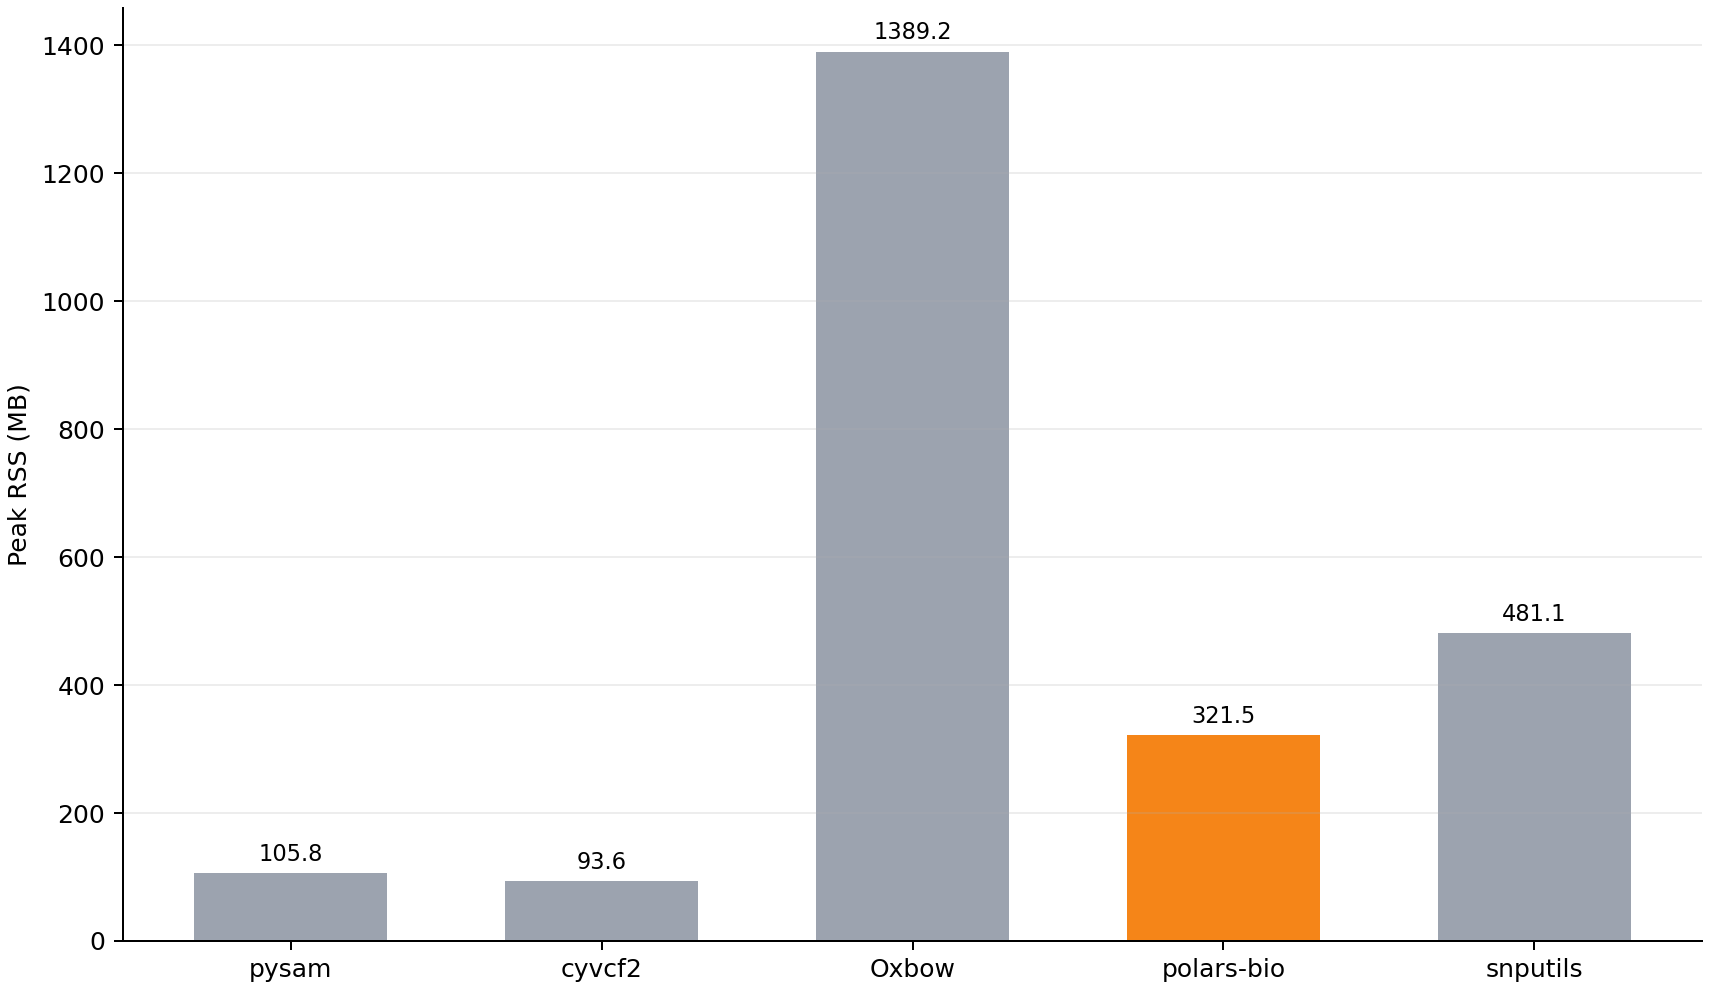
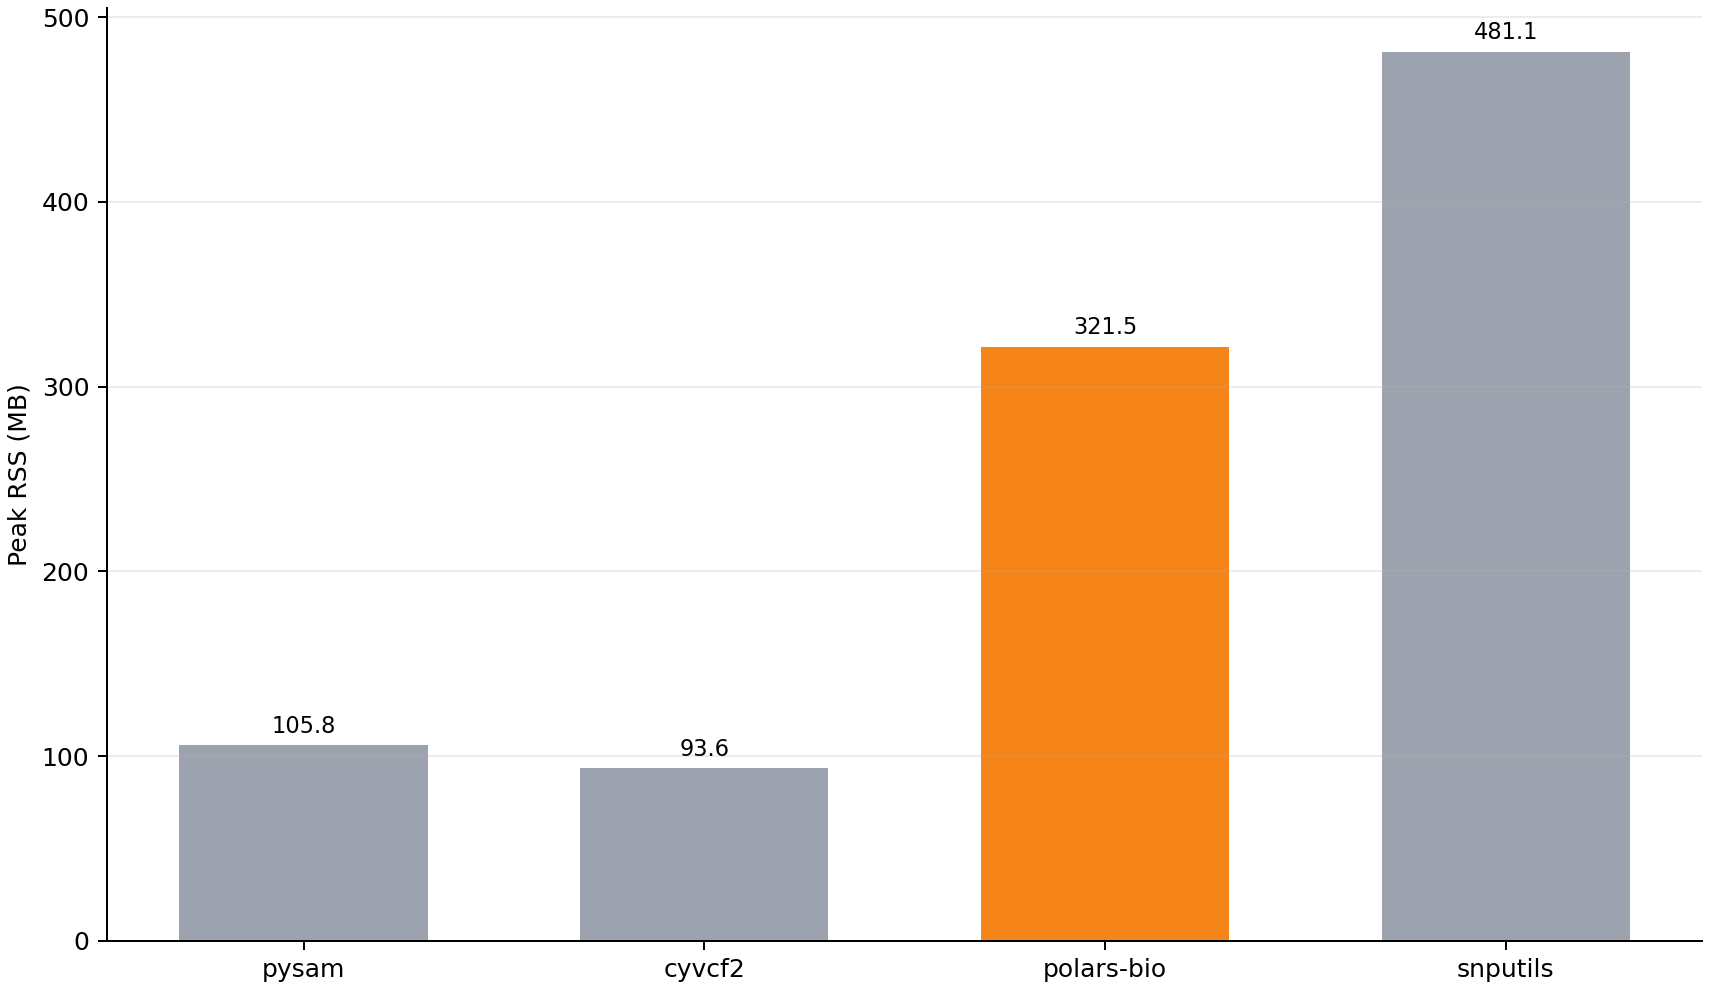
Remove Oxbow from BCF blog results

diff --git a/docs/blog/posts/bcf-genotype-readers-2026-08.md b/docs/blog/posts/bcf-genotype-readers-2026-08.md
@@ -13,7 +13,7 @@ categories:
 
 BCF reader benchmarks can compare unlike work: one library counts records,
 another retains metadata, and a third materializes every genotype. We use two
-tests with explicit—but different—output contracts. The first compares five
+tests with explicit—but different—output contracts. The first compares four
 BCF readers on a 25,000-variant subset after normalizing every result to the
 same NumPy matrix. The second measures full-chromosome genotype throughput and
 parallel scaling for polars-bio against snputils while retaining each reader's
@@ -35,7 +35,7 @@ if only the row count changed.
 | Variants | 25,000 | 993,881 |
 | Samples | 2,548 | 2,548 |
 | Dosage cells | 63,700,000 | 2,532,408,788 |
-| Readers | pysam, cyvcf2, Oxbow, polars-bio, snputils | polars-bio and snputils |
+| Readers | pysam, cyvcf2, polars-bio, snputils | polars-bio and snputils |
 | Timed retained output | C-contiguous row-major NumPy `int8` matrix, positions, and sample IDs | Complete genotype dosage in each reader's native container |
 | Concurrency | Every pool capped at one thread | polars-bio at `t=1,2,4,8`; snputils as a serial control |
 | Repetitions | Two fresh-process runs | Three fresh-process runs per `t` |
@@ -68,7 +68,6 @@ Variant and sample order must remain unchanged.
 |---|---:|---|
 | pysam | 0.24.0 | native iterator, preallocated matrix |
 | cyvcf2 | 0.31.4 | native iterator, vectorized per-record dosage |
-| Oxbow | 0.8.1 | bounded Arrow record batches |
 | polars-bio | 0.33.1 feature branch | lazy scan, streaming collection |
 | snputils | pinned development commit | specialized eager reader |
 
@@ -106,7 +105,6 @@ part of either timed result. Peak RSS is measured after retaining the output.
 |---|---:|---:|
 | pysam | 28.328 s | 179.291× |
 | cyvcf2 | 1.903 s | 12.044× |
-| Oxbow | 13.465 s | 85.222× |
 | **polars-bio** | **0.158 s** | **1.000×** |
 | snputils | 0.842 s | 5.329× |
 
@@ -121,7 +119,6 @@ polars-bio is 5.329× faster than snputils at one thread, reducing wall time by
 |---|---:|
 | pysam | 105.8 MB |
 | cyvcf2 | **93.6 MB** |
-| Oxbow | 1,389.2 MB |
 | **polars-bio** | 321.5 MB |
 | snputils | 481.1 MB |
 
@@ -129,12 +126,6 @@ cyvcf2 has the smallest peak RSS. polars-bio uses 33.2% less peak RSS than
 snputils while completing the standardized workload 5.329× faster.
 
 ![BCF reader peak RSS on a linear scale](figures/bcf-readers/bcf-reader-memory.png)
-
-Oxbow's result includes materializing its wide nested genotype representation
-and normalizing all 63.7 million values. The adapter consumes bounded Arrow
-batches rather than an eager whole-file frame. In a separate 1,000-row BCF
-diagnostic, source creation, schema discovery, and first-batch materialization
-took 0.499 seconds, while normalizing that materialized batch took 0.067 seconds.
 
 ## Test 2: full-chromosome throughput and scaling
 
@@ -208,7 +199,7 @@ so core columns, INFO, FORMAT strings, and typed GT dosage all benefit.
 
 ## Limitations
 
-- Test 1 uses a 25,000-row slice so all five readers complete on a 64 GiB
+- Test 1 uses a 25,000-row slice so all four readers complete on a 64 GiB
   machine. Test 2 uses the complete 993,881-row callset.
 - The callset is phased, diploid, and biallelic. Multiallelic dosage is rejected
   rather than collapsed into a misleading non-reference count.
